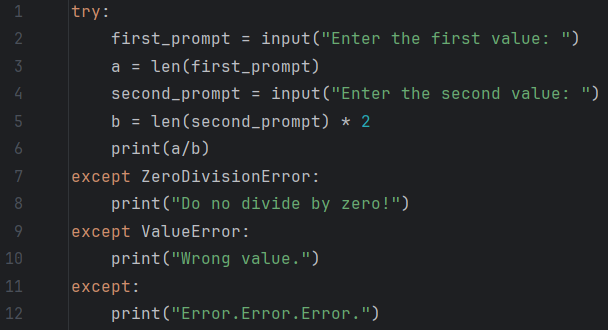
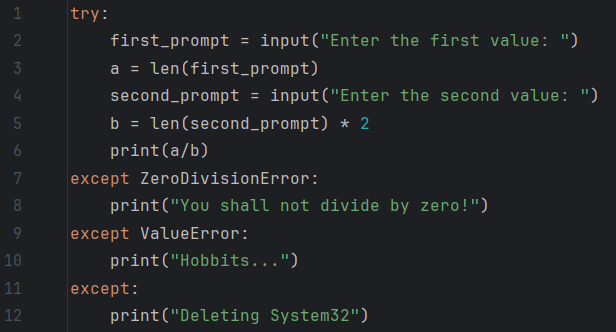
update

diff --git a/questions.js b/questions.js
@@ -1935,13 +1935,13 @@ export const questions = [
   },
   {
     question:
-      "What is the output of the following program if the user enters 'kangaroo' at the first prompt and '0' at the second prompt?",
+      "What is the output of the following program if the user enters 'Gandalf' at the first prompt and '0' at the second prompt?",
     image: "images/image44.png",
     answers: [
-      { text: "Wrong value.", correct: false },
-      { text: "Do not divide by zero!", correct: false },
-      { text: "4.0", correct: true },
-      { text: "Error.Error.Error.", correct: false },
+      { text: '"Hobbits..."', correct: false },
+      { text: '"You shall not divide by zero!"', correct: false },
+      { text: "3.5", correct: true },
+      { text: '"Deleting System32"', correct: false },
     ],
     explanation:
       "Explanation:<br><br>The length of kangaroo is 8, and the length of 0 is 1<br><br>Therefore, we get 8 / 2 -> 4.0",
